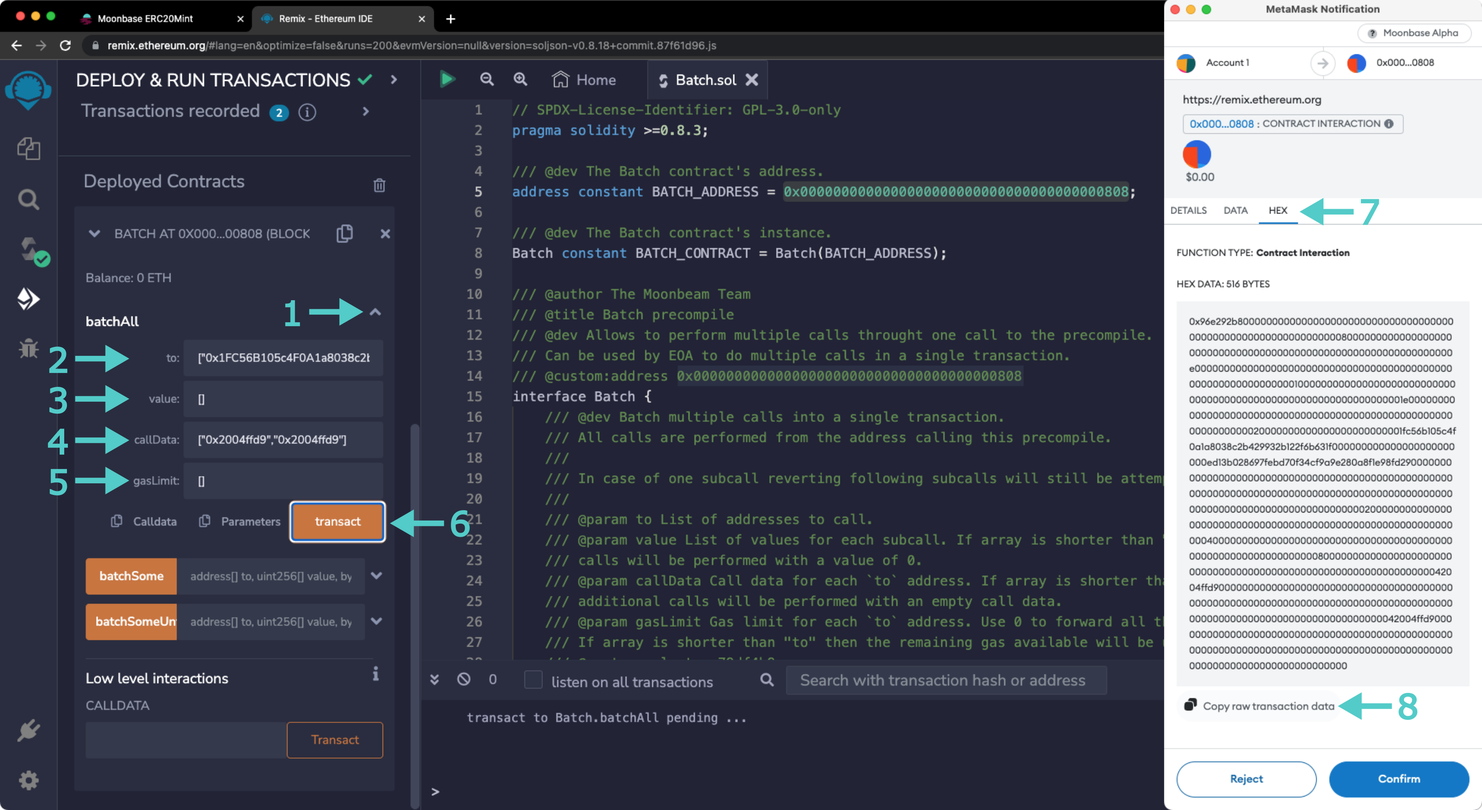
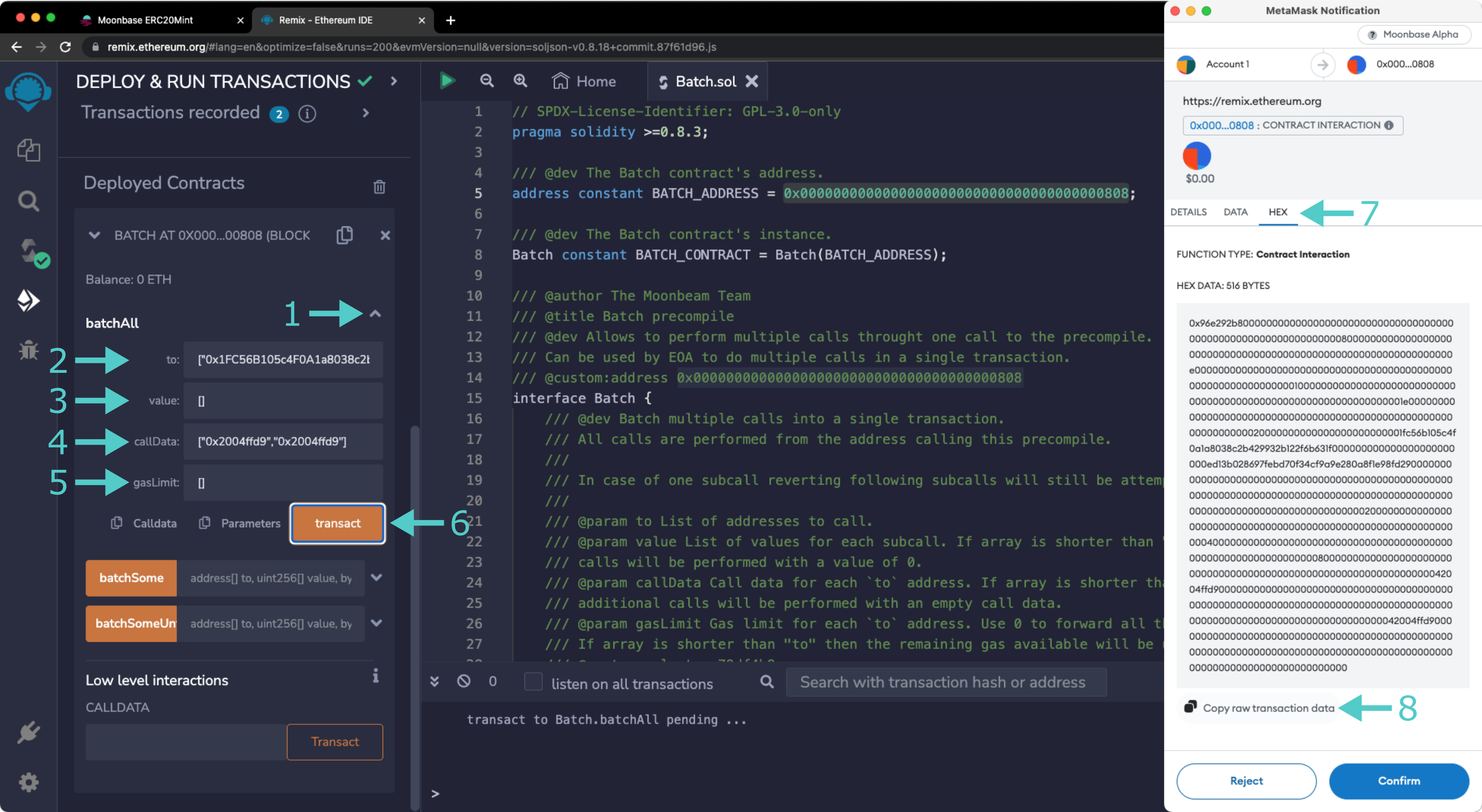
general fixes

diff --git a/.snippets/code/tutorials/interoperability/remote-batched-evm-calls/build-xcm-message.js b/.snippets/code/tutorials/interoperability/remote-batched-evm-calls/build-xcm-message.js
@@ -1,11 +1,15 @@
 import { ApiPromise, WsProvider } from '@polkadot/api'; // Version 9.13.6
 
 // 1. Input Data
-const providerWsURL = 'wss://frag-moonbase-relay-rpc-ws.g.moonbase.moonbeam.network';
+const providerWsURL =
+  'wss://frag-moonbase-relay-rpc-ws.g.moonbase.moonbeam.network';
 const amountToWithdraw = BigInt(1 * 10 ** 16); // 0.01 DEV
-const devMultiLocation = { parents: 0, interior: { X1: { PalletInstance: 3 } } };
+const devMultiLocation = {
+  parents: 0,
+  interior: { X1: { PalletInstance: 3 } },
+};
 const weightTransact = BigInt(43500000000); // 25000 * Gas limit of EVM call
-const multiLocAccount = '0x0d1587fae4f265b31ea9ba0cfdb1ade1208ed657';
+const multiLocAccount = '0x0d1587fae4f265b31ea9ba0cfdb1ade1208ed657'; // Replace with your multilocation-derivative account
 const transactBytes =
[1 lines of base64/hex data omitted]
 
@@ -29,7 +33,7 @@ const instr2 = {
       id: { Concrete: devMultiLocation },
       fun: { Fungible: amountToWithdraw },
     },
-    weightLimit: { 'Unlimited': null },
+    weightLimit: { Unlimited: null },
   },
 };
 

diff --git a/.snippets/code/tutorials/interoperability/remote-batched-evm-calls/send-xcm-message.js b/.snippets/code/tutorials/interoperability/remote-batched-evm-calls/send-xcm-message.js
@@ -2,7 +2,8 @@ import { ApiPromise, WsProvider } from '@polkadot/api'; // Version 9.13.6
 import Keyring from '@polkadot/keyring'; // Version 10.3.1
 
 // 1. Input Data
-const providerWsURL = 'wss://frag-moonbase-relay-rpc-ws.g.moonbase.moonbeam.network';
+const providerWsURL =
+  'wss://frag-moonbase-relay-rpc-ws.g.moonbase.moonbeam.network';
 const MNEMONIC = 'INSERT_MNEMONIC'; // Not safe, only for testing
 const txCall =
[1 lines of base64/hex data omitted]
@@ -23,7 +24,9 @@ const sendXCM = async () => {
     // 6. Check Transaction Status
     console.log(`Transaction sent`);
     if (result.status.isInBlock) {
-      console.log(`Transaction included in blockHash ${result.status.asInBlock}`);
+      console.log(
+        `Transaction included in blockHash ${result.status.asInBlock}`
+      );
     }
   });
 

diff --git a/tutorials/interoperability/remote-batched-evm-calls.md b/tutorials/interoperability/remote-batched-evm-calls.md
@@ -1,50 +1,49 @@
 ---
-title: Remote Batched EVM Calls via XCM
-description: In this guide, we'll use remote EVM execution via XCM coupled with the batch precompile to execute multiple contract calls in Moonbeam's EVM remotely via XCM.
+title: Remote Batch EVM Calls via XCM
+description: In this guide, we'll use remote EVM execution via XCM coupled with the Batch Precompile to execute multiple contract calls in Moonbeam's EVM remotely via XCM.
 template: main.html
 ---
 
-# Remote Batched EVM Calls via XCM
+# Remote Batch EVM Calls via XCM
 
 ![Banner Image](/images/tutorials/interoperability/remote-batched-evm-calls/remote-batched-evm-calls-banner.png)
 _June 8, 2023 | by Kevin Neilson_
 
 ## Introduction {: #introduction }
 
-In this tutorial, we’ll be making a series of remote batched EVM calls from a relay chain (what Polkadot is to Moonbeam) using Polkadot's general message passing protocol called [XCM](/builders/interoperability/xcm/overview/){target=_blank}. To do so, we'll be using a particular combination of XCM instructions that allow you to [call Moonbeam's EVM through an XCM message](/builders/interoperability/xcm/remote-evm-calls/){target=_blank}. The unique twist to this tutorial is that rather than making a single remote EVM contract call, we'll be using Moonbeam's [Batch precompile](/builders/pallets-precompiles/precompiles/batch/){target=_blank} to combine multiple EVM calls into a single transaction. 
+In this tutorial, we’ll be making a series of remote batch EVM calls from a relay chain (what Polkadot is to Moonbeam) using Polkadot's general message passing protocol called [XCM](/builders/interoperability/xcm/overview/){target=_blank}. To do so, we'll be using a particular combination of XCM instructions that allow you to [call Moonbeam's EVM through an XCM message](/builders/interoperability/xcm/remote-evm-calls/){target=_blank}. The unique twist to this tutorial is that rather than making a single remote EVM contract call, we'll be using Moonbeam's [Batch Precompile](/builders/pallets-precompiles/precompiles/batch/){target=_blank} to combine multiple EVM calls into a single transaction.
 
 To get the most out of this tutorial, you may wish to first familiarize yourself with [Remote EVM Calls Through XCM](/builders/interoperability/xcm/remote-evm-calls/){target=_blank} as well as Moonbeam's [Batch Precompile](/builders/pallets-precompiles/precompiles/batch/){target=_blank}.
 
 **The content of this tutorial is for educational purposes only!**
 
-For this example, you'll be working on top of Moonbase Alpha (Moonbeam TestNet), which has its own relay chain called [Moonbase Relay](https://polkadot.js.org/apps/?rpc=wss%3A%2F%2Ffrag-moonbase-relay-rpc-ws.g.moonbase.moonbeam.network#/accounts){target=_blank} (akin to the Polkadot Relay Chain). The relay chain token is called `UNIT`, while Moonbase Alpha's is called `DEV`. Importantly, you **must understand that sending incorrect XCM messages can result in the loss of funds.** Consequently, it is essential to test XCM features on a TestNet before moving to a production environment.
+For this example, you'll be working on top of Moonbase Alpha (Moonbeam TestNet), which has its own relay chain called [Moonbase relay](https://polkadot.js.org/apps/?rpc=wss%3A%2F%2Ffrag-moonbase-relay-rpc-ws.g.moonbase.moonbeam.network#/accounts){target=_blank} (akin to the Polkadot relay chain). The relay chain token is called UNIT, while Moonbase Alpha's is called DEV. Importantly, you **must understand that sending incorrect XCM messages can result in the loss of funds.** Consequently, it is essential to test XCM features on a TestNet before moving to a production environment.
 
-The goal of this tutorial is to show you how the [Batch Precompile](/builders/pallets-precompiles/precompiles/batch/){target=_blank} can work in conjunction with [Polkadot's XCM](/builders/interoperability/xcm/overview/){target=_blank} to allow you to trigger batched remote EVM calls on Moonbeam. To avoid adding complexity to this tutorial, the actual batched EVM calls we'll be making will be quite simple. We'll be initiating multiple mints of [planet ERC-20 test tokens on Moonbase Alpha](https://moonbase-minterc20.netlify.app/){target=_blank}. Although we've chosen simple contract calls for demonstration purposes, there are lots more real-life defi examples that you may wish to emulate, such as token approvals & swaps, claiming rewards from multiple pools, or swapping & depositing into LP pools.
+The goal of this tutorial is to show you how the [Batch Precompile](/builders/pallets-precompiles/precompiles/batch/){target=_blank} can work in conjunction with [Polkadot's XCM](/builders/interoperability/xcm/overview/){target=_blank} to allow you to trigger batch remote EVM calls on Moonbeam. To avoid adding complexity to this tutorial, the actual batch EVM calls we'll be making will be quite simple. We'll be initiating multiple mints of [planet ERC-20 test tokens on Moonbase Alpha](https://moonbase-minterc20.netlify.app/){target=_blank}. Although we've chosen simple contract calls for demonstration purposes, there are lots more real-life defi examples that you may wish to emulate, such as token approvals and swaps, claiming rewards from multiple pools, or swapping and depositing into LP pools.
 
-Throughout this tutorial, we will refer to the account executing the batched EVM calls via XCM as Alice. Let's preview the flow of this tutorial:
+Throughout this tutorial, we will refer to the account executing the batch EVM calls via XCM as Alice. Let's preview the flow of this tutorial:
 
-1. Alice has an account on the relay chain, and she wants to mint `Mars` and `Neptune` tokens (ERC-20s on Moonbase Alpha) using [Moonbase Minter](https://moonbase-minterc20.netlify.app/){target=_blank}. Alice needs to send an XCM message to Moonbase Alpha from her relay chain account
-2. The XCM message will be received by Moonbase Alpha and its instructions executed. The instructions state Alice's intention to buy some block execution time in Moonbase Alpha and execute a call to Moonbase's Batch Precompile, composed of two distinct mint calls. The batched EVM call is dispatched through a special account Alice controls on Moonbase Alpha via XCM messages. This account is known as the [multilocation-derivative account](/builders/interoperability/xcm/xcm-transactor/#general-xcm-definitions){target=_blank}. Even though this is a keyless account (private key is unknown), the public address can be [calculated in a deterministic way](/builders/interoperability/xcm/remote-evm-calls/#calculate-multilocation-derivative){target=_blank}
-3. The successful XCM execution will result in the mint commands being executed by the EVM, and Alice will receive her `Mars` and `Neptune` tokens in her special account
+1. Alice has an account on the relay chain, and she wants to mint Mars (MARS) and Neptune (NEPT) tokens (ERC-20s on Moonbase Alpha) using [Moonbase Minter](https://moonbase-minterc20.netlify.app/){target=_blank}. Alice needs to send an XCM message to Moonbase Alpha from her relay chain account
+2. The XCM message will be received by Moonbase Alpha and its instructions executed. The instructions state Alice's intention to buy some block execution time in Moonbase Alpha and execute a call to Moonbase's Batch Precompile, composed of two distinct mint calls. The batch EVM call is dispatched through a special account Alice controls on Moonbase Alpha via XCM messages. This account is known as the [multilocation-derivative account](/builders/interoperability/xcm/xcm-transactor/#general-xcm-definitions){target=_blank}. Even though this is a keyless account (private key is unknown), the public address can be [calculated in a deterministic way](/builders/interoperability/xcm/remote-evm-calls/#calculate-multilocation-derivative){target=_blank}
+3. The successful XCM execution will result in the mint commands being executed by the EVM, and Alice will receive her MARS and NEPT tokens in her special account
 4. The execution of the remote EVM call through XCM will result in some EVM logs that are picked up by explorers. There is an EVM transaction and receipt that anyone can query to verify
 
-The "happy path" of a remote batched EVM call dispatched via XCM is as follows:
-![Remote batched EVM call via XCM diagram](/images/tutorials/interoperability/remote-batched-evm-calls/remote-batched-evm-calls-1.png)
+The "happy path" of a remote batch EVM call dispatched via XCM is as follows:
+![Remote batch EVM call via XCM diagram](/images/tutorials/interoperability/remote-batched-evm-calls/remote-batched-evm-calls-1.png)
 
 ## Checking Prerequisites {: #checking-prerequisites }
 
 Considering all the steps summarized in the [introduction](#introduction), the following prerequisites need to be accounted for:
 
-- You need to have UNITs on the relay chain to pay for transaction fees when sending the XCM. If you have a Moonbase Alpha account funded with DEV tokens, you can swap some DEV for xcUNIT here on [Moonbeam Swap](https://moonbeam-swap.netlify.app/#/swap){target=_blank}. Then withdraw the xcUNIT from Moonbase Alpha to [your account on the Moonbase relay chain](https://polkadot.js.org/apps/?rpc=wss://frag-moonbase-relay-rpc-ws.g.moonbase.moonbeam.network#/accounts){target=_blank} using [apps.moonbeam.network](https://apps.moonbeam.network/moonbase-alpha/){target=_blank}
-- Your [multilocation-derivative account](/builders/interoperability/xcm/xcm-transactor/#general-xcm-definitions){target=_blank} must hold `DEV` tokens to fund the call to the Batch precompile, and also pay for the XCM execution (although this could be paid in UNIT tokens as `xcUNIT`). We will calculate the multilocation-derivative account address in the next section
-
---8<-- 'text/faucet/faucet-list-item.md'
+- You need to have UNITs on the relay chain to pay for transaction fees when sending the XCM. If you have a Moonbase Alpha account funded with DEV tokens, you can swap some DEV for xcUNIT here on [Moonbeam Swap](https://moonbeam-swap.netlify.app/#/swap){target=_blank}. Then withdraw the xcUNIT from Moonbase Alpha to [your account on the Moonbase relay chain](https://polkadot.js.org/apps/?rpc=wss://frag-moonbase-relay-rpc-ws.g.moonbase.moonbeam.network#/accounts){target=_blank} using [apps.moonbeam.network](https://apps.moonbeam.network/moonbase-alpha/){target=_blank}.
+  --8<-- 'text/faucet/faucet-list-item.md'
+- Your [multilocation-derivative account](/builders/interoperability/xcm/xcm-transactor/#general-xcm-definitions){target=_blank} must hold DEV tokens to fund the call to the Batch Precompile, and also pay for the XCM execution (although this could be paid in UNIT tokens as xcUNIT). We will calculate the multilocation-derivative account address in the next section
 
 ## Calculating your Multilocation-Derivative Account {: #calculating-your-multilocation-derivative-account }
 
 --8<-- 'text/xcm/calculate-multilocation-derivative-account.md'
 
-For our case, we will send the remote EVM call via XCM from Alice's account, which is `5GQtq2cSDLeN77T2Bs4jxV7yUQh841tWy6wtJoSUrFZAm5qS`, so the command and response should resemble the following image. A parachain ID is omitted from the command since we are sending the XCM instruction from the Relay Chain.
+For our case, we will send the remote EVM call via XCM from Alice's account, which is `5GQtq2cSDLeN77T2Bs4jxV7yUQh841tWy6wtJoSUrFZAm5qS`. A parachain ID is omitted from the command since we are sending the XCM instruction from the relay chain. The command and response should resemble the following image:
 
 ![Calculating the multilocation-derivative account](/images/tutorials/interoperability/remote-batched-evm-calls/remote-batched-evm-calls-2.png)
 
@@ -59,21 +58,21 @@ The values are all summarized in the following table:
[1 lines of base64/hex data omitted]
 | Multilocation-Derivative Account (20 bytes) |                                                       `0x0d1587fae4f265b31ea9ba0cfdb1ade1208ed657`                                                        |
 
-The script will return 32-byte and 20-byte addresses. We’re interested in the Ethereum-style account - the 20-byte one, which is `0x0d1587fae4f265b31ea9ba0cfdb1ade1208ed657`. Feel free to look up your multilocation-derivative account on [Moonscan](https://moonbase.moonscan.io/){target=_blank}. Next, you can fund this account with DEV tokens.
+The script will return 32-byte and 20-byte addresses. We’re interested in the Ethereum-style account, the 20-byte one, which is `0x0d1587fae4f265b31ea9ba0cfdb1ade1208ed657`. Feel free to look up your multilocation-derivative account on [Moonscan](https://moonbase.moonscan.io/){target=_blank}. Next, you can fund this account with DEV tokens.
 
 --8<-- 'text/faucet/faucet-sentence.md'
 
 ## Preparing the Mint EVM Calldata {: #preparing-the-mint-evm-calldata }
 
-First, we'll generate the necessary calldata for minting the `Mars` and `Neptune` tokens. We'll then reference the Batch Precompile to batch the calls into a single one.
+First, we'll generate the necessary calldata for minting the MARS and NEPT tokens. We'll then reference the Batch Precompile to batch the calls into a single one.
 
-The function being targeted here is the `mint` function of [Moonbase Minter](https://moonbase-minterc20.netlify.app/){target=_blank}. It takes no parameters and the function calldata is the same for each planet. However, each planet has a different contract address.
+The function being targeted here is the `mint` function of [Moonbase Minter](https://moonbase-minterc20.netlify.app/){target=_blank}. It takes no parameters, and the function calldata is the same for each planet. However, each planet has a different contract address.
 
 The easiest way to get the calldata is through the [Moonbase Minter](https://moonbase-minterc20.netlify.app/){target=_blank} page. Once you land on the website, take the following steps:
 
  1. Press **Connect MetaMask** and unlock your wallet
  2. Click on any of the **Mint** buttons since they all have the same calldata
- 3. MetaMask should pop up but **do not sign the transaction**. In MetaMask, click on the **hex** tab, and the encoded calldata should show up
+ 3. MetaMask should pop up, but **do not sign the transaction**. In MetaMask, click on the **hex** tab, and the encoded calldata should show up
  4. Click on the **Copy raw transaction data** button. This will copy the encoded calldata to the clipboard, which should match: `0x2004ffd9`
 
 ![Calldata for Minting action](/images/tutorials/interoperability/remote-batched-evm-calls/remote-batched-evm-calls-3.png)
@@ -81,30 +80,48 @@ The easiest way to get the calldata is through the [Moonbase Minter](https://moo
 !!! note
     Other wallets also offer the same capabilities of checking the encoded calldata before signing the transaction.
 
-## Preparing the Batched Calldata {: #preparing-the-batched-calldata }
-Now that we have the calldata for the mint actions, we can work with the Batch Precompile to combine multiple calls into a single one. The Batch Precompile offers several different methods of batching your transactions according to your tolerance for subcall failures.
+## Preparing the Batch Calldata {: #preparing-the-batched-calldata }
 
-For demonstration purposes, we'll be using [Remix](http://remix.ethereum.org/){target=_blank} to visualize and construct our calldata. Go ahead and copy [`Batch.sol`](https://raw.githubusercontent.com/PureStake/moonbeam/master/precompiles/batch/Batch.sol){target=_blank} and compile it. The [Batch Precompile overview page](/builders/pallets-precompiles/precompiles/batch/#remix-set-up){target=_blank} offers a step-by-step guide for getting started with the Batch Precompile in Remix. As it is a precompile, we won't be deploying anything but rather will access the Batch precompile at its respective address of `0x0000000000000000000000000000000000000808`. For more information about how each method of the Batch Precompile works, be sure to check out the full [Batch Precompile tutorial](/builders/pallets-precompiles/precompiles/batch/){target=_blank}.
+Now that we have the calldata for the mint actions, we can work with the Batch Precompile to combine multiple calls into a single one. The Batch Precompile offers several different methods of batching your transactions according to your tolerance for subcall failures. For this example, we'll use the `batchAll` function, which reverts all subcalls if a single subcall fails. For more information about how each method of the Batch Precompile works, be sure to check out the full [Batch Precompile tutorial](/builders/pallets-precompiles/precompiles/batch/){target=_blank}.
 
-Specify your environment in Remix as **Injected Web3** and make sure your wallet is on the Moonbase Alpha network. After inputting the address and pressing **At Address** on the **Deploy** tab of Remix, take the following steps to prepare the batched calls:
+For demonstration purposes, we'll be using [Remix](http://remix.ethereum.org/){target=_blank} to visualize and construct our calldata. If needed, the [Batch Precompile page](/builders/pallets-precompiles/precompiles/batch/#remix-set-up){target=_blank} offers a step-by-step guide for getting started with the Batch Precompile in Remix.
 
-1. Expand the **batchAll** or another desired method of the batch precompile.
-2. In the **To** field, place the addresses of the `Mars` and `Neptune` contracts enclosed in quotes and separated by a comma. The entire line should be wrapped in brackets as follows: 
+To quickly get started, go ahead and copy [`Batch.sol`](https://raw.githubusercontent.com/PureStake/moonbeam/master/precompiles/batch/Batch.sol){target=_blank} and compile it. From the **Deploy** tab of Remix, specify your environment in Remix as **Injected Web3** and make sure your wallet is on the Moonbase Alpha network. As it is a precompile, we won't be deploying anything but rather will access the Batch Precompile at its respective address:
+
+=== "Moonbeam"
+     ```
+     {{networks.moonbeam.precompiles.batch }}
+     ```
+
+=== "Moonriver"
+     ```
+     {{networks.moonriver.precompiles.batch }}
+     ```
+
+=== "Moonbase Alpha"
+     ```
+     {{networks.moonbase.precompiles.batch }}
+     ```
+
+After inputting the address and pressing **At Address**, take the following steps to prepare the batch calls:
+
+1. Expand the **batchAll** or another desired method of the Batch Precompile
+2. In the **To** field, place the addresses of the MARS and NEPT contracts enclosed in quotes and separated by a comma. The entire line should be wrapped in brackets as follows: 
 `["0x1FC56B105c4F0A1a8038c2b429932B122f6B631f","0xed13B028697febd70f34cf9a9E280a8f1E98FD29"]`
-3. Provide an empty `[]` open and close brackets in the value field. We don't want to send any tokens to the contracts as they are not payable contracts.
-4. In the `callData` field, provide the following: `["0x2004ffd9","0x2004ffd9"]`. Note that you need to provide the calldata for each call, even if the calldata is identical like it is with both `mint` calls.
-5. Optionally, you could specify a gas limit but there is no need here, so simply provide an empty `[]` open and close brackets.
-6. To validate that you have correctly configured the calls, you can press **Transact** but don't confirm the transaction in your wallet. If you get an error, double check that you have correctly formatted each parameter.
-7. MetaMask should pop up, **do not sign the transaction**. In MetaMask, click on the **hex** tab, and the encoded calldata should show up.
-8. Click on the **Copy raw transaction data** button. This will copy the encoded calldata of the batched call to the clipboard.
+3. Provide an empty array (`[]`) in the value field. We don't want to send any tokens to the contracts, as they are not payable contracts
+4. In the `callData` field, provide the following: `["0x2004ffd9","0x2004ffd9"]`. Note that you need to provide the calldata for each call, even if the calldata is identical, like it is with both `mint` calls
+5. Optionally, you could specify a gas limit, but there is no need here, so simply provide an empty array (`[]`)
+6. To validate that you have correctly configured the calls, you can press **Transact**, but don't confirm the transaction in your wallet. If you get an error, double-check that you have correctly formatted each parameter
+7. MetaMask should pop up, but **do not sign the transaction**. In MetaMask, click on the **hex** tab, and the encoded calldata should show up
+8. Click on the **Copy raw transaction data** button. This will copy the encoded calldata of the batch call to the clipboard
 
-![Generate batched calls using Batch Precompile](/images/tutorials/interoperability/remote-batched-evm-calls/remote-batched-evm-calls-4.png)
+![Generate batch calls using Batch Precompile](/images/tutorials/interoperability/remote-batched-evm-calls/remote-batched-evm-calls-4.png)
 
-We've now finished preparing our EVM calldata for the batched call. Next, we'll need to prepare the XCM instructions that will execute our remote batched call.
+We've now finished preparing our EVM calldata for the batch call. Next, we'll need to prepare the XCM instructions that will execute our remote batch call.
 
 ## Generating the Moonbeam Encoded Callcata {: #generating-the-moonbeam-encoded-call-data }
 
-Now that we have the batched EVM calldata that contains the two mint commands, we need to generate the bytes that the `Transact` XCM instruction from the XCM message will execute. Note that these bytes represent the action that will be executed in the remote chain. In this example, we want the XCM message execution to enter the EVM and issue the two mint commands, from which we got the encoded calldata.
+Now that we have the batch EVM calldata that contains the two mint commands, we need to generate the bytes that the `Transact` XCM instruction from the XCM message will execute. Note that these bytes represent the action that will be executed in the remote chain. In this example, we want the XCM message execution to enter the EVM and issue the two mint commands, from which we got the encoded calldata.
 
 To get the SCALE (encoding type) encoded calldata for the transaction parameters, we can leverage the following [Polkadot.js API](/builders/build/substrate-api/polkadot-js-api/){target=_blank} script (note that it requires `@polkadot/api`).
 
@@ -120,11 +137,11 @@ Let's go through each of the main components of the snippet shown above:
  1. Provide the input data for the request. This includes: 
      - Moonbase Alpha endpoint URL to create the providers
      - Address of the Batch Precompile
-     - Encoded calldata for the batched call that contains both mint commands.
- 2. Create the necessary providers. One is a [Polkadot.js API](/builders/build/substrate-api/polkadot-js-api/){target=_blank} provider, through which we can call [Moonbeam pallets](/builders/pallets-precompiles/pallets/){target=_blank} directly.
- 3. Here, we are hardcoding the gas limit for simplicity and to avoid gas estimation issues as a result of the Batch precompile.
- 4. [Build the remote EVM call containing the batched call](/builders/interoperability/xcm/remote-evm-calls/#build-remove-evm-call-xcm){target=_blank}.
- 5. Create the Ethereum XCM pallet call to the `transact` method, providing the call parameters specified above.
+     - Encoded calldata for the batch call that contains both mint commands
+ 2. Create the necessary providers. One is a [Polkadot.js API](/builders/build/substrate-api/polkadot-js-api/){target=_blank} provider, through which we can call [Moonbeam pallets](/builders/pallets-precompiles/pallets/){target=_blank} directly
+ 3. Here, we are hardcoding the gas limit for simplicity and to avoid gas estimation issues as a result of the Batch Precompile
+ 4. [Build the remote EVM call containing the batch call](/builders/interoperability/xcm/remote-evm-calls/#build-remove-evm-call-xcm){target=_blank}
+ 5. Create the Ethereum XCM pallet call to the `transact` method, providing the call parameters specified above
  6. Get the SCALE calldata of the specific transaction parameter, which we need to provide to the `Transact` XCM instruction later on. Note that in this particular scenario, because we need only the calldata of the transaction parameters, we have to use `tx.method.toHex()`
 
 Once you have the code set up, you can execute it with `node`, and you'll get the Moonbase Alpha remote EVM calldata:
@@ -145,7 +162,7 @@ We are almost in the last part of this tutorial! In this section, we'll craft th
 
 The XCM message we are about to build is composed of the following instructions:
 
- - [`WithdrawAsset`](https://github.com/paritytech/xcm-format#withdrawasset){target=_blank} — takes funds from the account dispatching the XCM in the destination chain and puts them in holding where funds can be used for later actions
+ - [`WithdrawAsset`](https://github.com/paritytech/xcm-format#withdrawasset){target=_blank} — takes funds from the account dispatching the XCM in the destination chain and puts them in holding where they can be used for later actions
  - [`BuyExecution`](https://github.com/paritytech/xcm-format#buyexecution){target=_blank} — buy a certain amount of block execution time
  - [`Transact`](https://github.com/paritytech/xcm-format#transact){target=_blank} — use part of the block execution time bought with the previous instruction to execute some arbitrary bytes
  - [`DepositAsset`](https://github.com/paritytech/xcm-format#depositasset){target=_blank} — takes assets from holding and deposits them to a given account
@@ -162,17 +179,17 @@ To build the XCM message, which will initiate the remote EVM call through XCM, a
 Let's go through each of the main components of the snippet shown above:
 
  1. Provide the input data for the call. This includes:
-     - [Moonbase Relay chain](https://polkadot.js.org/apps/?rpc=wss%3A%2F%2Ffrag-moonbase-relay-rpc-ws.g.moonbase.moonbeam.network#/accounts){target=_blank} endpoint URL to create the provider
+     - [Moonbase relay chain](https://polkadot.js.org/apps/?rpc=wss%3A%2F%2Ffrag-moonbase-relay-rpc-ws.g.moonbase.moonbeam.network#/accounts){target=_blank} endpoint URL to create the provider
      - Amount of tokens (in Wei) to withdraw from the multilocation-derivative account. For this example, `0.01` tokens are more than enough. To understand how to get this value, please refer to the [XCM fee page](/builders/interoperability/xcm/fees/#moonbeam-reserve-assets){target=_blank}
-     - The [multilocation of the `DEV` token](/builders/interoperability/xcm/xc-integration/#register-moonbeams-asset-on-your-parachain){target=_blank} as seen by Moonbase Alpha
-     - The weight for the `transact` XCM instruction. This can be obtained by multiplying `25000` and the gas limit obtained before. It is recommended to add approximately 10% more of the estimated value. You can read more about this value in the [Remote EVM Calls through XCM](/builders/interoperability/xcm/remote-evm-calls/#build-xcm-remote-evm){target=_blank} page
-     - The multilocation-derivative account as it will be needed later for an XCM instruction
+     - The [multilocation of the DEV token](/builders/interoperability/xcm/xc-integration/#register-moonbeams-asset-on-your-parachain){target=_blank}, as seen by Moonbase Alpha
+     - The weight for the `transact` XCM instruction. This can be obtained by multiplying `25000` by the gas limit obtained before. It is recommended to add approximately 10% more of the estimated value. You can read more about this value on the [Remote EVM Calls through XCM](/builders/interoperability/xcm/remote-evm-calls/#build-xcm-remote-evm){target=_blank} page
+     - The multilocation-derivative account, as it will be needed later for an XCM instruction
      - The bytes for the `transact` XCM instruction that we calculated in the previous section
  2. Define the destination multilocation for the XCM message. In this case, it is the Moonbase Alpha parachain
  3. First XCM instruction, `WithdrawAsset`. You need to provide the asset multilocation and the amount you want to withdraw. Both variables were already described before
- 4. Second XCM instruction, `BuyExecution`. Here, we are paying for Moonbase Alpha block execution time in `DEV` tokens by providing its multilocation and the amount we took out with the previous instruction. Next, we are buying all the execution we can (`Unlimited` weight) with `0.001 DEV` tokens which should be around 20 billion weight units, plenty for our example
+ 4. Second XCM instruction, `BuyExecution`. Here, we are paying for Moonbase Alpha block execution time in DEV tokens by providing its multilocation and the amount we took out with the previous instruction. Next, we are buying all the execution we can (`Unlimited` weight) with `0.01 DEV` tokens which should be around 20 billion weight units, plenty for our example
  5. Third XCM instruction, `Transact`. The instruction will use a portion of the weight bought (defined as `requireWeightAtMost`) and execute the arbitrary bytes that are provided (`transactBytes`)
- 6. Fourth XCM instruction, `DepositAsset`. Whatever is left in holding after the actions executed before (in this case, it should be only `DEV` tokens) is deposited to the multilocation-derivative account, set as the `beneficiary`.
+ 6. Fourth XCM instruction, `DepositAsset`. Whatever is left in holding after the actions executed before (in this case, it should be only DEV tokens) is deposited into the multilocation-derivative account, set as the `beneficiary`.
  7. Build the XCM message by concatenating the instructions inside a `V3` array
  8. Create the [Polkadot.js API](/builders/build/substrate-api/polkadot-js-api/){target=_blank} provider
  9. Craft the `xcmPallet.send` extrinsic with the destination and XCM message. This method will append the [`DescendOrigin`](https://github.com/paritytech/xcm-format#descendorigin){target=_blank} XCM instruction to our XCM message, and it is the instruction that will provide the necessary information to calculate the multilocation-derivative account
@@ -180,7 +197,7 @@ Let's go through each of the main components of the snippet shown above:
 
 Once you have the code set up, you can execute it with `node`, and you'll get the relay chain XCM calldata:
 
-![Getting the Relay Chain XCM calldata for the Remote Batched call](/images/tutorials/interoperability/remote-batched-evm-calls/remote-batched-evm-calls-6.png)
+![Getting the Relay Chain XCM calldata for the Remote Batch call](/images/tutorials/interoperability/remote-batched-evm-calls/remote-batched-evm-calls-6.png)
 
 The encoded calldata for this example is:
 
@@ -188,17 +205,20 @@ The encoded calldata for this example is:
[1 lines of base64/hex data omitted]
 ```
 
-Now that we have the SCALE encoded calldata, the last step is to submit the transaction, which will send our XCM message to Moonbase Alpha, and do the remote batched EVM call!
+!!! note
+    The encoded calldata for you should be slightly different, as you should have replaced the multilocation-derivative account in the script with the one you created in the [Calculation your Multilocation-Derivative Account](#calculating-your-multilocation-derivative-account) section.
+
+Now that we have the SCALE encoded calldata, the last step is to submit the transaction, which will send our XCM message to Moonbase Alpha, and do the remote batch EVM call!
 
 ## Sending the XCM Message from the Relay Chain {: #send-xcm-message-relay-chain }
 
 Congratulations on making it here, you're almost done! Let's recap what we've done so far:
 
- - We've created a relay chain account that is funded with `UNIT` tokens (relay chain native tokens)
- - We determined its multilocation-derivative account on Moonbase Alpha and funded this new address with `DEV` tokens
- - We obtained the Batch precompile calldata which combines two mint calls for `Mars` and `Neptune` ERC-20 tokens.
+ - We've created a relay chain account that is funded with UNIT tokens (relay chain native tokens)
+ - We determined its multilocation-derivative account on Moonbase Alpha and funded this new address with DEV tokens
+ - We obtained the Batch Precompile calldata which combines two mint calls for MARS and NEPT ERC-20 tokens
  - We built the SCALE encoded calldata in Moonbase Alpha to access its EVM via XCM
- - We crafted our transaction to send an XCM message to Moonbase Alpha, in which we will ask it to execute the SCALE encoded calldata that was previously built. This, in turn, will execute the call to the batch precompile which includes the mint calls for both the `Mars` and `Neptune` ERC-20 tokens!
+ - We crafted our transaction to send an XCM message to Moonbase Alpha, in which we will ask it to execute the SCALE encoded calldata that was previously built. This, in turn, will execute the call to the Batch Precompile which includes the mint calls for both the MARS and NEPT ERC-20 tokens!
 
 To send the XCM message that we built in the previous section, you can use the following code snippet:
 
@@ -206,23 +226,23 @@ To send the XCM message that we built in the previous section, you can use the f
 --8<-- 'code/tutorials/interoperability/remote-batched-evm-calls/send-xcm-message.js'
 ```
 
-Once you have the code set up, you can execute it with `node`, and the XCM message will be sent to initiate your call to the batch precompile for the mints of `Mars` and `Neptune` ERC-20 tokens in Moonbase Alpha. Don't worry if you see an `Abnormal Closure` error. You can verify that your remote batched call was successful by looking up your multilocation-derivative account on [Moonbase Moonscan](https://moonbase.moonscan.io/)
+Once you have the code set up, you can execute it with `node`, and the XCM message will be sent to initiate your call to the Batch Precompile for the mints of MARS and NEPT ERC-20 tokens in Moonbase Alpha. Don't worry if you see an `Abnormal Closure` error. You can verify that your remote batch call was successful by looking up your multilocation-derivative account on [Moonbase Moonscan](https://moonbase.moonscan.io/){target=_blank}.
 
-![Sending the XCM message from the Relay Chain to Moonbase Alpha for the batched EVM call](/images/tutorials/interoperability/remote-batched-evm-calls/remote-batched-evm-calls-7.png)
+![Sending the XCM message from the Relay Chain to Moonbase Alpha for the batch EVM call](/images/tutorials/interoperability/remote-batched-evm-calls/remote-batched-evm-calls-7.png)
 
-And that is it! You've sent an XCM message, which performed a remote EVM call to the batch precompile via XCM and resulted in mints of `Mars` and `Neptune` ERC-20 tokens. But let's go into more detail about what happened.
+And that is it! You've sent an XCM message, which performed a remote EVM call to the Batch Precompile via XCM and resulted in the minting of MARS and NEPT ERC-20 tokens. But let's go into more detail about what happened.
 
-This action will emit different events. The first one is the only relevant [in the relay chain](https://polkadot.js.org/apps/?rpc=wss://frag-moonbase-relay-rpc-ws.g.moonbase.moonbeam.network#/explorer/query/0x85cad5f3cef5d578f6acc60c721ece14842be332fa333c9b9eafdfe078bc0290){target=_blank}, and it is named `xcmPallet.Sent`, which is from the `xcmPallet.send` extrinsic. In [Moonbase Alpha](https://polkadot.js.org/apps/?rpc=wss://wss.api.moonbase.moonbeam.network#/explorer/query/0x1f60aeb1f2acbc2cf6e19b7ad969661f21f4847f7b40457c459e7d39f6bc0779){target=_blank}, the following events emitted by the `parachainSystem.setValidationData` extrinsic (where all the inbound XCM messages are processed) are of interest:
+This action will emit different events. The first one is only relevant [in the relay chain](https://polkadot.js.org/apps/?rpc=wss://frag-moonbase-relay-rpc-ws.g.moonbase.moonbeam.network#/explorer/query/0x85cad5f3cef5d578f6acc60c721ece14842be332fa333c9b9eafdfe078bc0290){target=_blank}, and it is named `xcmPallet.Sent`, which is from the `xcmPallet.send` extrinsic. In [Moonbase Alpha](https://polkadot.js.org/apps/?rpc=wss://wss.api.moonbase.moonbeam.network#/explorer/query/0x1f60aeb1f2acbc2cf6e19b7ad969661f21f4847f7b40457c459e7d39f6bc0779){target=_blank}, the following events emitted by the `parachainSystem.setValidationData` extrinsic (where all the inbound XCM messages are processed) are of interest:
 
  - `parachainSystem.DownwardMessagesReceived` — states that there was an XCM message received
- - `evm.Log` — internal events emitted by the different contract calls. The structure is the same: contract address, the topics, and relevant data
+ - `evm.Log` — internal events emitted by the different contract calls. The structure is the same: contract address, topics, and relevant data
  - `ethereum.Executed` — contains information on the `from` address, the `to` address, and the transaction hash of an EVM call done
- - `polkadotXcm.AssetsTrapped` — flags that some assets were in holding and were not deposited to a given address. If the `Transact` XCM instruction does not exhaust the tokens allocated to it, it will execute a [`RefundSurplus`](https://github.com/paritytech/xcm-format#refundsurplus){target=_blank} after the XCM is processed. This instruction will take any leftover tokens from the execution bought and put them in holding. We could prevent this by adjusting the fee provided to the `Transact` instruction, or by adding the instruction right after the `Transact`
+ - `polkadotXcm.AssetsTrapped` — flags that some assets were in holding and were not deposited to a given address. If the `Transact` XCM instruction does not exhaust the tokens allocated to it, it will execute a [`RefundSurplus`](https://github.com/paritytech/xcm-format#refundsurplus){target=_blank} after the XCM is processed. This instruction will take any leftover tokens from the execution bought and put them in holding. We could prevent this by adjusting the fee provided to the `Transact` instruction or by adding the instruction right after the `Transact`
  - `dmpQueue.ExecutedDownward` — states the result of executing a message received from the relay chain (a DMP message). In this case, the `outcome` is marked as `Complete`
 
-Our XCM was successfully executed! If you visit [Moonbase Alpha Moonscan](https://moonbase.moonscan.io/){target=_blank} and search for [the transaction hash](https://moonbase.moonscan.io/tx/0x797f9a75257cf1b6aa0cf7a3b59758402b6bb603a27de86450e2177877aaa889){target=_blank}, you'll find the call to the Batch precompile that was executed via the XCM message. Note that you can only call the `mint` commands once per hour per planet. If you wish to experiment further and make additional mint calls, simply change the destination contract address to a different planet when configuring the batched call.
+Our XCM was successfully executed! If you visit [Moonbase Alpha Moonscan](https://moonbase.moonscan.io/){target=_blank} and search for [the transaction hash](https://moonbase.moonscan.io/tx/0x797f9a75257cf1b6aa0cf7a3b59758402b6bb603a27de86450e2177877aaa889){target=_blank}, you'll find the call to the Batch Precompile that was executed via the XCM message. Note that you can only call the `mint` commands once per hour per planet. If you wish to experiment further and make additional mint calls, simply change the destination contract address to a different planet when configuring the batch call.
 
 !!! challenge
-    Use the batch precompile and remote EVM calls via XCM to combine an approval and a Uniswap V2 swap of `MARS` for any other token you want. As a thought experiment, consider carefully which method of the batch precompile is best suited to combine an approval and a swap transaction. Both the [Uniswap V2 Swap from Polkadot via XCM tutorial](/tutorials/interoperability/uniswapv2-swap-xcm/){target=_blank} and the [Batch Precompile tutorial](/tutorials/eth-api/batch-approve-swap/){target=_blank} are great resources to help you get started.
+    Use the Batch Precompile and remote EVM calls via XCM to combine an approval and a Uniswap V2 swap of MARS for any other token you want. As a thought experiment, consider carefully which method of the Batch Precompile is best suited to combine an approval and a swap transaction. Both the [Uniswap V2 Swap from Polkadot via XCM tutorial](/tutorials/interoperability/uniswapv2-swap-xcm/){target=_blank} and the [Batch Precompile tutorial](/tutorials/eth-api/batch-approve-swap/){target=_blank} are great resources to help you get started.
 
 --8<-- 'text/disclaimers/educational-tutorial.md'

diff --git a/.snippets/text/xcm/calculate-multilocation-derivative-account.md b/.snippets/text/xcm/calculate-multilocation-derivative-account.md
@@ -1,4 +1,4 @@
-Copy the account of your existing or newly created account on the [Moonbase relay chain](https://polkadot.js.org/apps/?rpc=wss://frag-moonbase-relay-rpc-ws.g.moonbase.moonbeam.network#/accounts){target=_blank}. You're going to need it to calculate the corresponding multilocation-derivative account, which is a special type of account that’s keyless (the private key is unknown). Transactions from a multilocation-derivative account can be initiated only via valid XCM instructions from the corresponding account on the relay chain. In other words, you are the only one who can initiate transactions on your multilocation-derivative account - and if you lose access to your Moonbase relay account, you’ll also lose access to your multilocation-derivative account.
+Copy the account of your existing or newly created account on the [Moonbase relay chain](https://polkadot.js.org/apps/?rpc=wss://frag-moonbase-relay-rpc-ws.g.moonbase.moonbeam.network#/accounts){target=_blank}. You're going to need it to calculate the corresponding multilocation-derivative account, which is a special type of account that’s keyless (the private key is unknown). Transactions from a multilocation-derivative account can be initiated only via valid XCM instructions from the corresponding account on the relay chain. In other words, you are the only one who can initiate transactions on your multilocation-derivative account, and if you lose access to your Moonbase relay account, you’ll also lose access to your multilocation-derivative account.
 
 To generate the multilocation-derivative account, first clone the [xcm-tools](https://github.com/PureStake/xcm-tools){target=_blank} repo. Run `yarn` to install the necessary packages, and then run:
 
@@ -14,5 +14,5 @@ Let's review the parameters passed along with this command:
 
 - The `-w` flag corresponds to the endpoint we’re using to fetch this information
 - The `-a` flag corresponds to your Moonbase relay chain address
-- The `-p` flag corresponds to the parachain ID of the origin chain (if applies), if you are sending the XCM from the relay chain, you don't need to provide this parameter
+- The `-p` flag corresponds to the parachain ID of the origin chain (if applicable), if you are sending the XCM from the relay chain, you don't need to provide this parameter
 - The `-n` flag corresponds to the name of the relay chain that Moonbase relay is based on

diff --git a/tutorials/interoperability/uniswapv2-swap-xcm.md b/tutorials/interoperability/uniswapv2-swap-xcm.md
@@ -257,6 +257,6 @@ This action will emit different events. The first one is the only relevant [in t
 Our XCM was successfully executed! If you visit [Moonbase Alpha Moonscan](https://moonbase.moonscan.io/){target=_blank} and search for [the transaction hash](https://moonbase.moonscan.io/tx/0xdb0705ae31aa046ba2797f0d85fab29c0f94299263ae4e184dce69a93d341d26){target=_blank}, you'll find the Uniswap V2 swap that was executed via the XCM message.
 
 !!! challenge
-    Do a Uniswap V2 swap of `MARS` for any other token you want. Note that in this case, you'll have to remote execute an ERC-20 `approve` via XCM first to allow the Uniswap V2 Router to spend the tokens on your behalf. Once the aproval is done, you can send the XCM message for the swap itself.
+    Do a Uniswap V2 swap of `MARS` for any other token you want. Note that in this case, you'll have to remotely execute an ERC-20 `approve` via XCM first to allow the Uniswap V2 Router to spend the tokens on your behalf. Once the approval is done, you can send the XCM message for the swap itself.
 
 --8<-- 'text/disclaimers/educational-tutorial.md'
